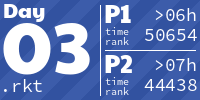
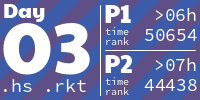
haskell parsec solution

diff --git a/README.md b/README.md
@@ -1,7 +1,7 @@
 # aoc-2024
 <!-- AOC TILES BEGIN -->
 <h1 align="center">
-  2024 - 6 ⭐ - Racket
+  2024 - 6 ⭐ - Racket/Haskell
 </h1>
 <a href="day1/day1.hs">
   <img src=".aoc_tiles/tiles/2024/01.png" width="161px">
@@ -9,7 +9,7 @@
 <a href="day2/day2.hs">
   <img src=".aoc_tiles/tiles/2024/02.png" width="161px">
 </a>
-<a href="day3/day3.rkt">
+<a href="day3/day3.hs">
   <img src=".aoc_tiles/tiles/2024/03.png" width="161px">
 </a>
 <!-- AOC TILES END -->
